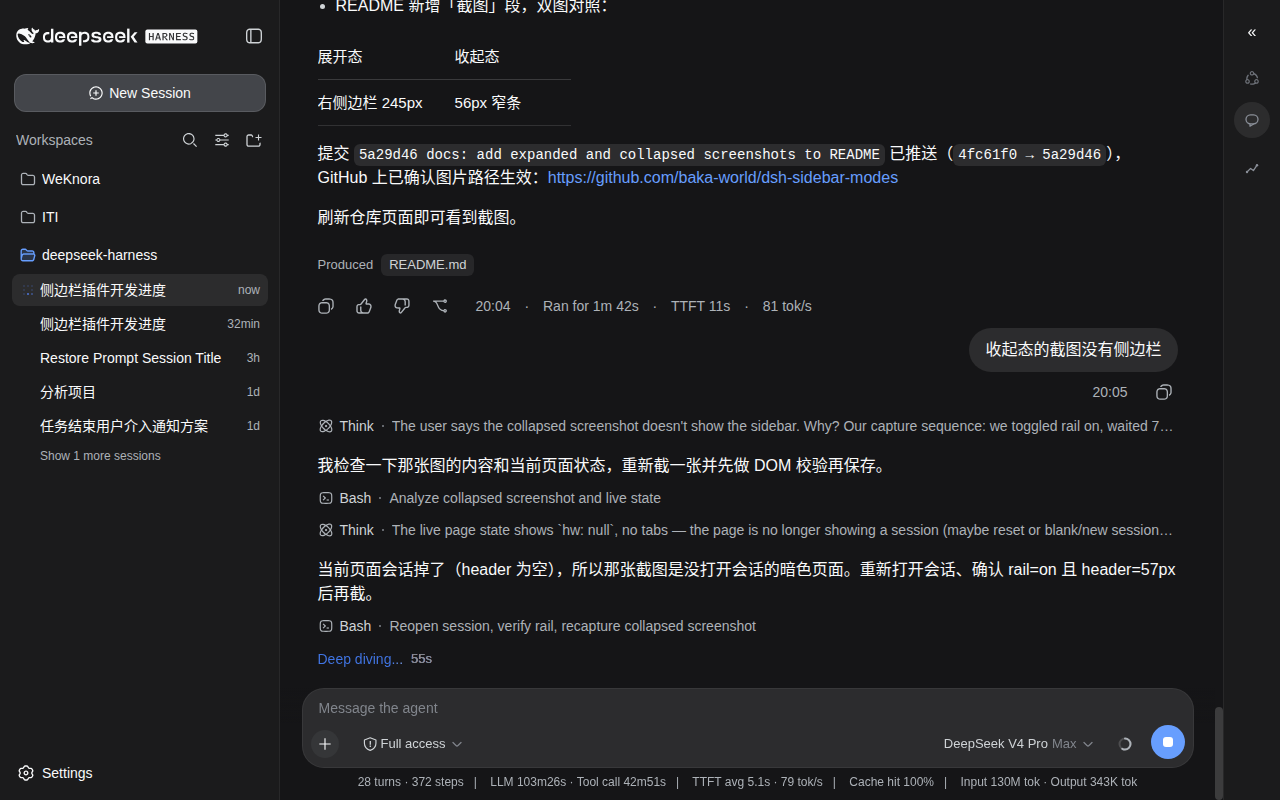
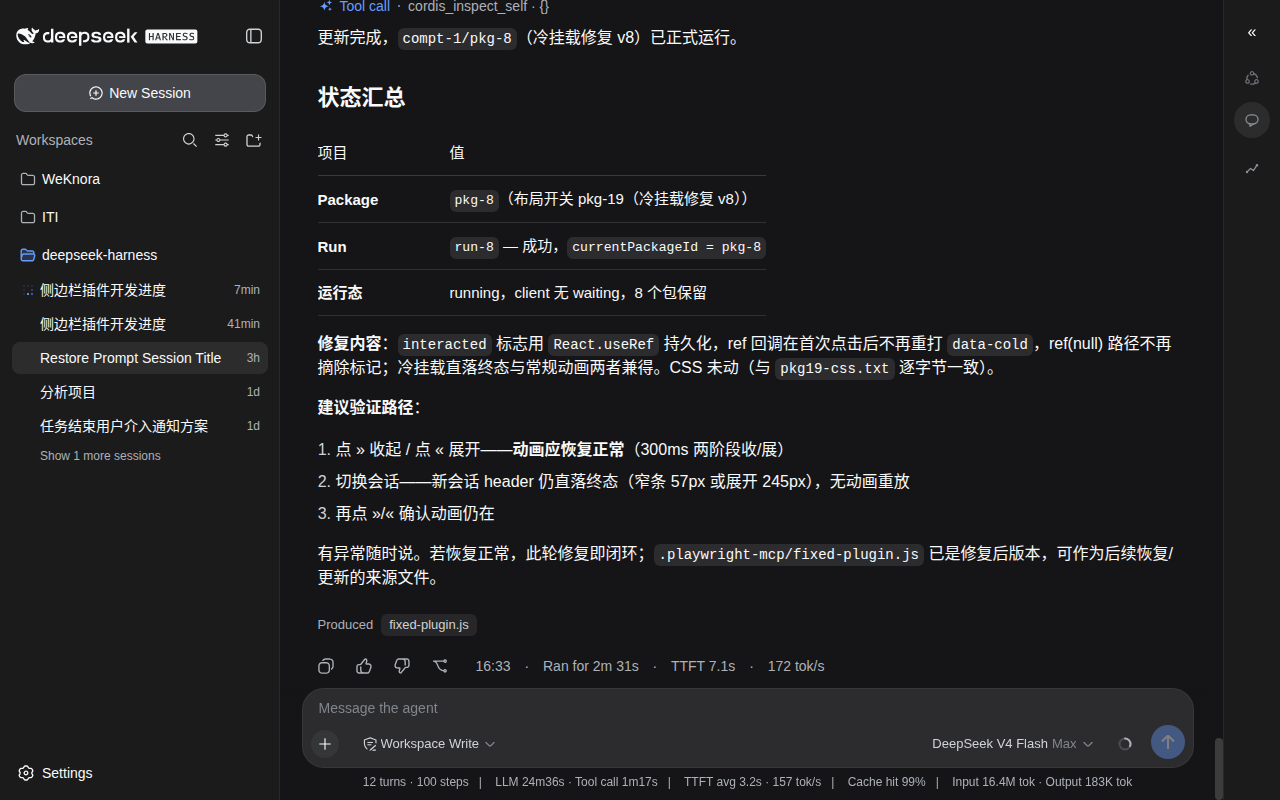
docs: add animated collapse/expand demo GIF to README

diff --git a/README.md b/README.md
@@ -25,7 +25,11 @@
 - 双击标题进入开发者模式（标题变蓝），显示两个常驻开关
 - 状态经 `localStorage`（`dsh-ui-layout-plugin-v1`）持久化，冷挂载不重放动画
 
-## 截图
+## 演示与截图
+
+展开 → 收起 → 展开：
+
+![展开 → 收起 → 展开](docs/screenshots/demo.gif)
 
 | 展开态（右侧边栏 245px） | 收起态（56px 窄条） |
 |---|---|
